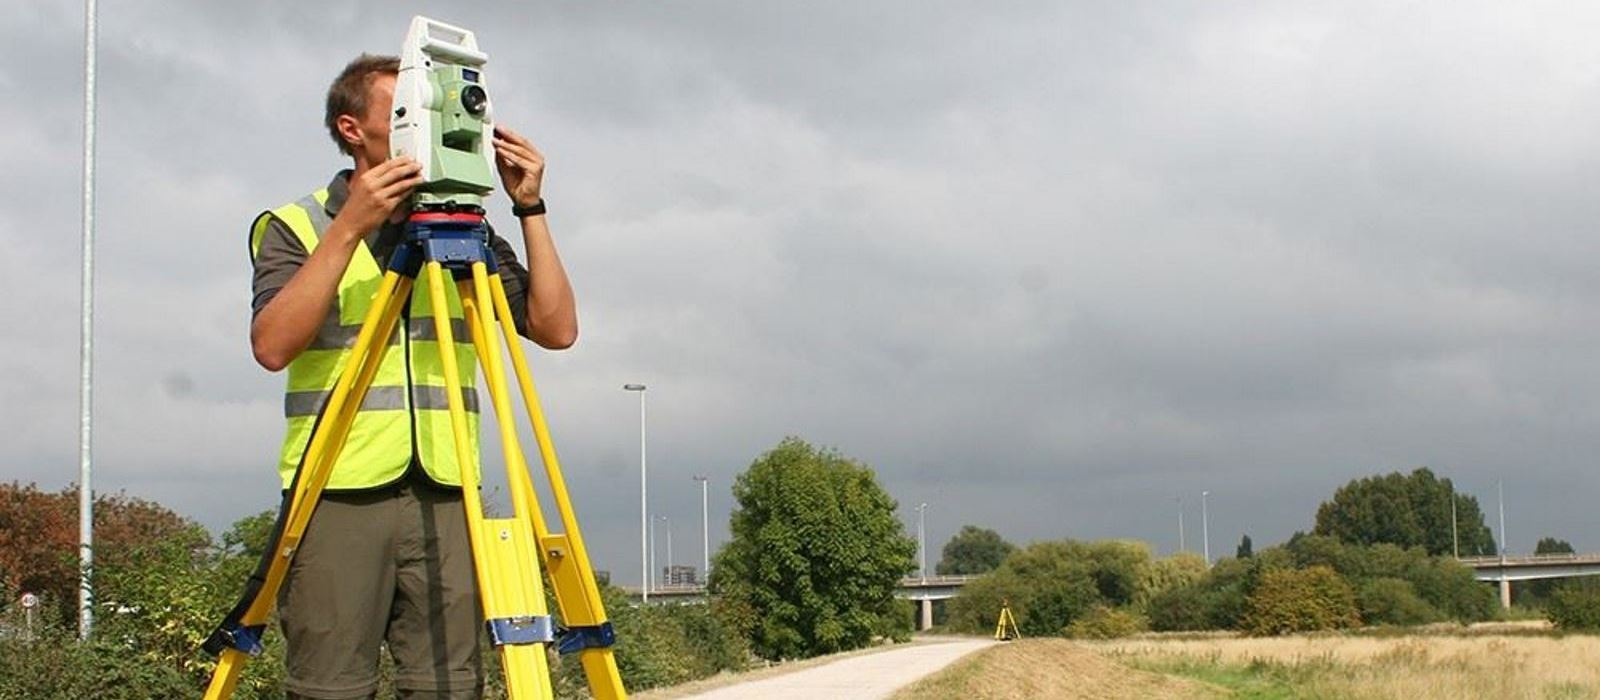
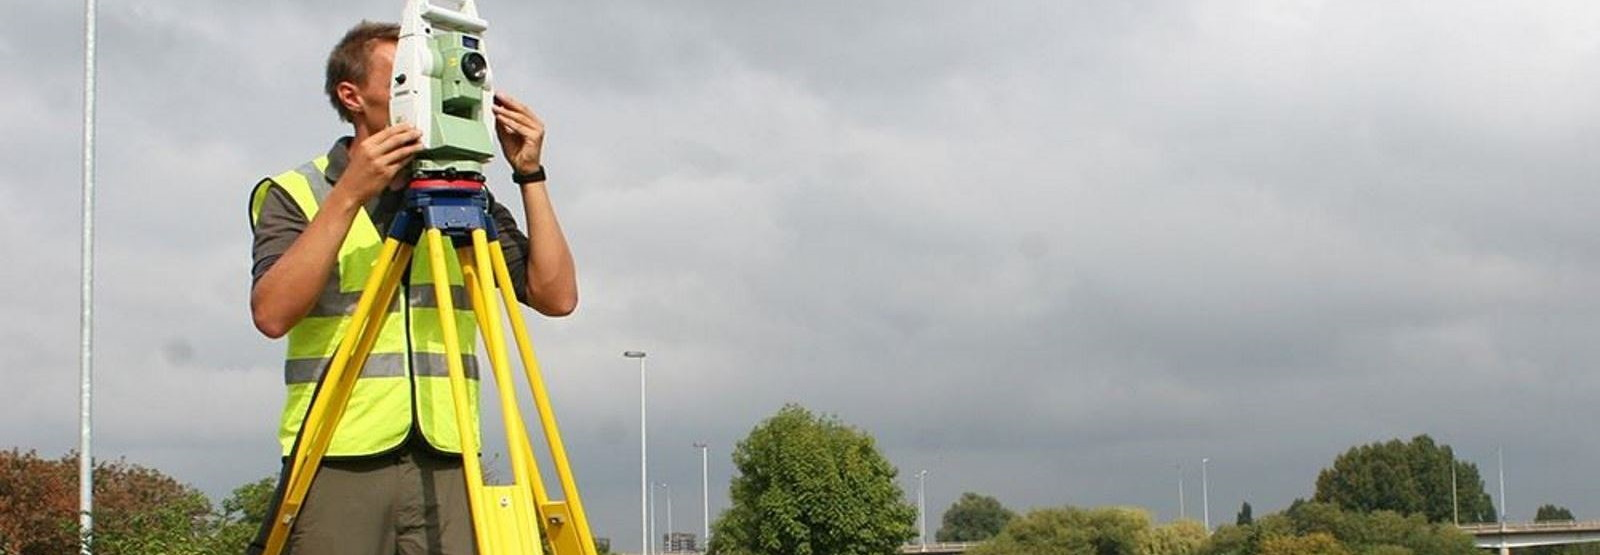
Исправлено растягивание катринок по высоте, добавлен раздел media

diff --git a/customJS/main.js b/customJS/main.js
@@ -5,13 +5,15 @@ var Layout = function () {
   var path_3 = '/3.php';
   var path_4 = '/4.php';
   var path_about = '/about.php';
+  var path_media = '/media.php';
 
   var t = function () {
       if (window.location.pathname == path_1 || 
         window.location.pathname == path_2 || 
         window.location.pathname == path_3 || 
         window.location.pathname == path_4 || 
-        window.location.pathname == path_about) {
+        window.location.pathname == path_about ||
+        window.location.pathname == path_media) {
         $("body").addClass("page-on-scroll")
       } else if ($(window).scrollTop() > 60) {
         $("body").addClass("page-on-scroll")

diff --git a/customCSS/custom.css b/customCSS/custom.css
@@ -8,7 +8,7 @@
 
 .color-white-pages {
   color: #000 !important;
-  background-color: #FFFAFA;
+  background-color: #fdf9f9;
   text-align: justify;
   font-size: 20px;
   padding: 10px 10px 10px 10px;
@@ -29,6 +29,18 @@
 .color-white-pages img {
   border-radius: 8px;
   width: 95%;
+}
+
+.media-description {
+  color: #000;
+  font-size: 25px;
+  font-weight: 700;
+  text-align: left;
+}
+
+.color-white-pages iframe {
+  width: 100%;
+  height: 250px;
 }
 
 .color-white-pages i {
@@ -70,6 +82,10 @@
 
   .color-white-pages img {
     width: 184px;
+  }
+
+  .color-white-pages iframe {
+    height: 510px;
   }
 
   .color-white-pages-div {

diff --git a/media.php b/media.php
@@ -1,0 +1,38 @@
+<?php include 'php/head.php'; ?>
+<title>Мир геодезии</title>
+</head>
+
+<body id="body" data-spy="scroll" data-target=".header" class="body-pages-1">
+    <?php include 'php/header.php'; ?>
+
+    <section class="section-header-img">
+
+    </section>
+
+    <section>
+        <div class="margin-b-40">
+            <div class="color-white-pages-div">
+                <div class="color-white-pages">
+
+                    <p class="media-description">Ролик про современную геодезию</p>
+                    <iframe width="560" height="315" src="https://www.youtube.com/embed/cIRiWBc-zrU" frameborder="0"
+                        allow="accelerometer; autoplay; encrypted-media; gyroscope; picture-in-picture"
+                        allowfullscreen></iframe>
+
+                    <br /><br />
+                    <p class="media-description">Что такое теодолит</p>
+                    <iframe src="https://www.youtube.com/embed/b7kqYjNT6pI" frameborder="0"
+                        allow="accelerometer; autoplay; encrypted-media; gyroscope; picture-in-picture"
+                        allowfullscreen></iframe>
+
+                    <br /><br />
+
+                    <p class="media-description">Видео-мануал по работе с тахеометром</p>
+                    <iframe src="https://www.youtube.com/embed/nFXFizO4CQU" frameborder="0"
+                        allow="accelerometer; autoplay; encrypted-media; gyroscope; picture-in-picture" allowfullscreen>
+                    </iframe>
+                </div>
+            </div>
+    </section>
+
+    <?php include 'php/footer.php'; ?>

diff --git a/php/header.php b/php/header.php
@@ -25,8 +25,9 @@
                         <div class="menu-container">
                             <ul class="nav navbar-nav navbar-nav-right">
                                 <li class="js_nav-item nav-item"><a class="nav-item-child nav-item-hover" href="4.php">КАРТА САЙТА</a></li>
+                                <li class="js_nav-item nav-item"><a class="nav-item-child nav-item-hover" href="media.php">МЕДИА</a></li>
                                 <li class="js_nav-item nav-item"><a class="nav-item-child nav-item-hover" href="about.php">О НАС</a></li>
-                                <li class="js_nav-item nav-item"><a class="nav-item-child nav-item-hover" href="/">ОБРАТНАЯ СВЯЗЬ</a></li>
+                                
                             </ul>
                         </div>
                     </div>
